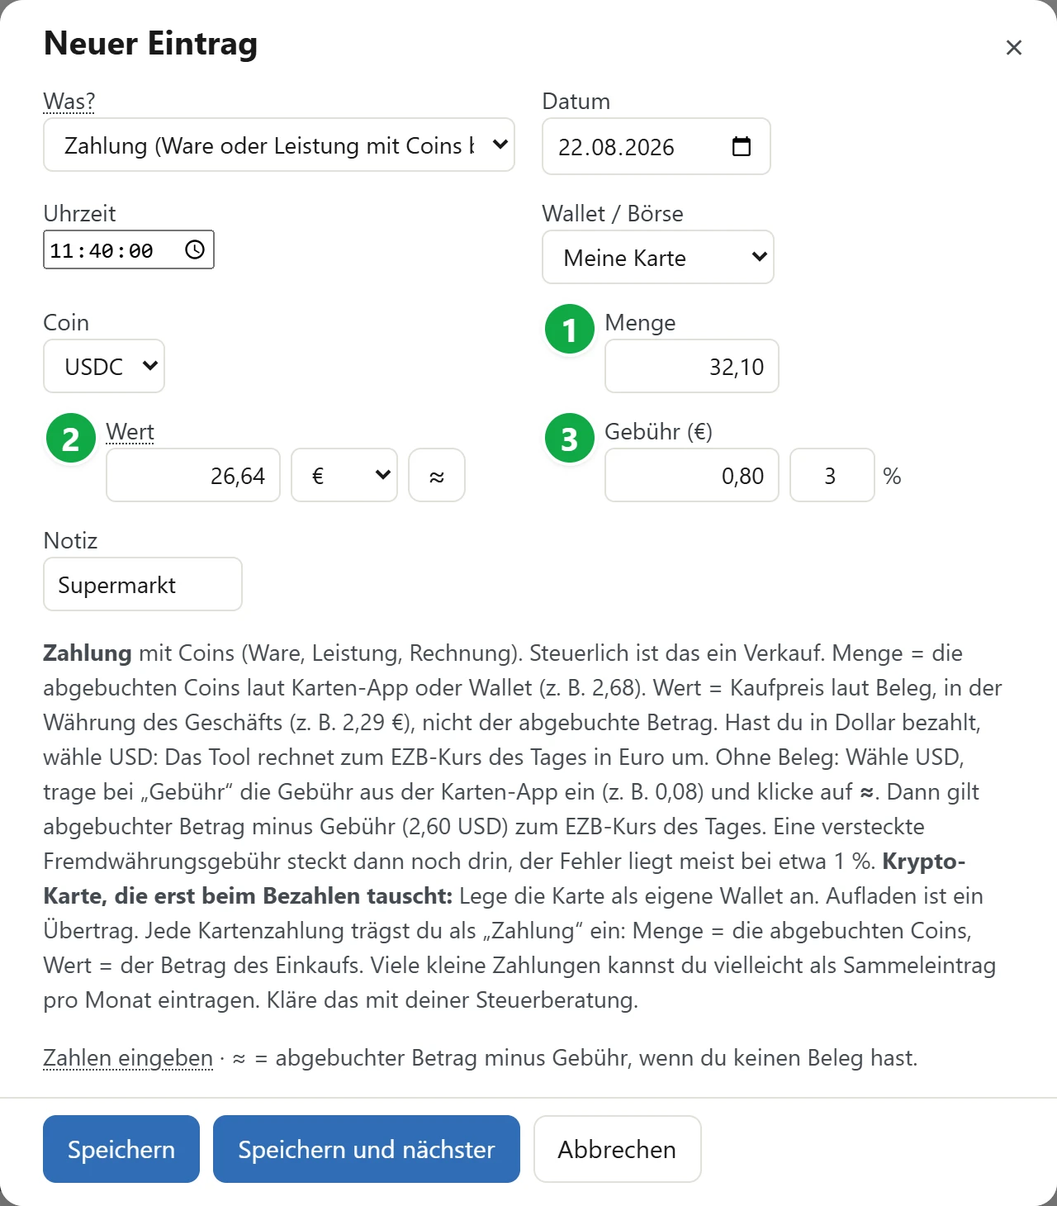
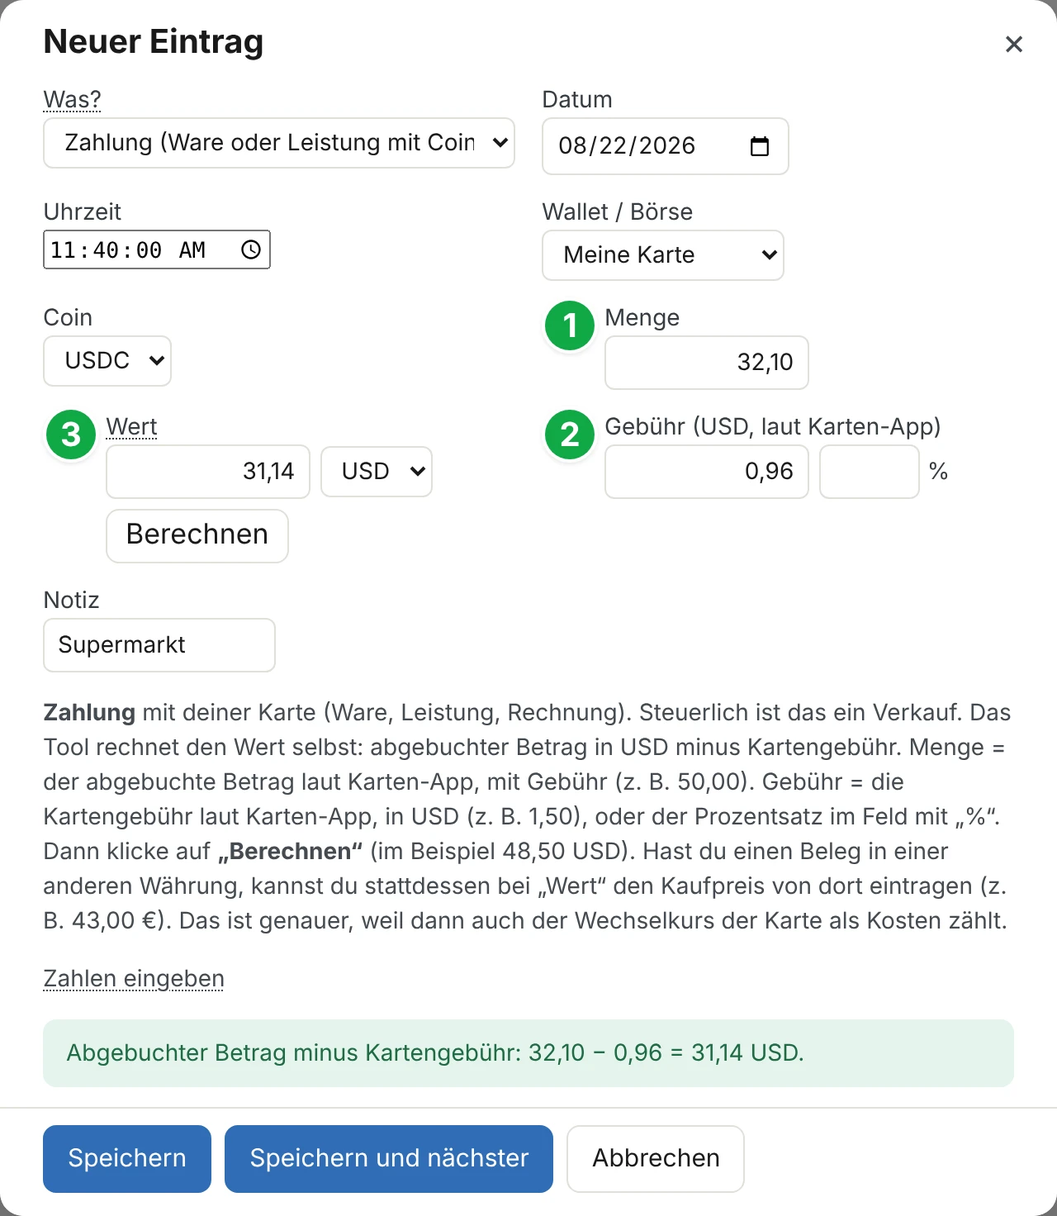
0.137: Kartenzahlung, zwei Wege, Gebühr in USD, Knopf „Berechnen“, Anleitung Abschnitt 11
Claude-Session: https://claude.ai/code/session_01XeVKBiWcTUzEdKGkeYYZGJ

diff --git a/trading-bilanz.html b/trading-bilanz.html
@@ -2482,7 +2482,7 @@ for(const k of ['tag','cx','wallets','defCoin','rsrc','rown','rcov','tagDrop','t
   if(S.wbalD!=null&&(typeof S.wbalD!=='object'||Array.isArray(S.wbalD)))delete S.wbalD;
   // Ab 0.122: Merker statt Namen
   nameMarks(S);
-  // Ab 0.136 (Florians Entscheidung): Zahlung aus einer Karte, mit ≈ ausgerechnet (abgebuchter Betrag minus Gebühr in USD, Gebühr über 0): Das ist eine
+  // Ab 0.137 (Florians Entscheidung): Zahlung aus einer Karte, mit ≈ ausgerechnet (abgebuchter Betrag minus Gebühr in USD, Gebühr über 0): Das ist eine
   // Rechnung, keine Schätzung. Sie gilt als fertig, die Notiz „Schätzung: …“ fällt weg. Mit Gebühr 0 bleibt sie geschätzt.
   for(const c of S.cx)if(c.kind==='bezahlung'&&c.est&&c.cardPct==null&&c.cur==='USD'&&c.fee>0&&c.qty>0&&Math.abs((c.usd||0)-(c.qty-c.fee))<0.006&&payCardW(S,c.wallet)){
     c.est=false;if(c.note==='Schätzung: abgebuchter Betrag minus Gebühr')c.note=''}
@@ -4115,7 +4115,7 @@ function payBulk(S,keys,pct,ok){const out=[],CA=wCardSet(S);
 // Zahlungen aus älteren Ständen um, deren Wert und Gebühr noch genau der alten Formel entsprechen (also nicht von Hand geändert sind).
 // Als function (nicht const), weil fixState sie schon beim Laden braucht.
 function cardFeeOf(q,p){const fee=Math.max(0,Math.round(q*p+1e-7)/100);return {usd:Math.max(0,+(q-fee).toFixed(8)),fee}}
-// Ab 0.136 (Florians Entscheidung): Kartenzahlung = Zahlung aus einer Wallet der Art „Karte“ (gespeicherte Art, sonst der Vorschlag kindGuess).
+// Ab 0.137 (Florians Entscheidung): Kartenzahlung = Zahlung aus einer Wallet der Art „Karte“ (gespeicherte Art, sonst der Vorschlag kindGuess).
 // Ihre Gebühr steht immer in USD, laut Karten-App, egal welche Währung der Wert hat, auch bei alten Einträgen. Die Rechnung (kxEvents, Block KRYPTO)
 // sieht die Art nicht, sie liest die Marke feeU am Eintrag; payFeeSync setzt sie aus der Art der Wallet (fixState, cryptoCalc). Zwei Wege:
 // Weg 1 (Standard, Wert in USD): Wert = abgebuchter Betrag minus Kartengebühr. Weg 2 (Wert in einer anderen Währung): Kaufpreis laut Beleg.
@@ -7718,7 +7718,7 @@ function kxEvents(tag,cx,rf,bo){
     if(!KX_ART[c.kind]||(cxMissing(c).length&&!(c.kind==='uebertrag'&&c.dxb&&dxB[c.id]&&c.to===c.wallet&&c.date&&c.qty>0)))return;
     const nt=c.note?': '+c.note:'',b={k:c.kind,d:c.date,tm:c.time||'',w:c.wallet,coin:c.coin,q:c.qty,cx:i,est:!!c.est};
     const mv=()=>{const r=rf(c.date,'');return r?c.qty/r:NaN}; // Marktwert am Tag
-    // Ab 0.136: feeU = Gebühr in USD auch bei einem Wert in einer anderen Währung (Kartenzahlung, payFeeSync), zum EZB-Kurs des Tages in Euro
+    // Ab 0.137: feeU = Gebühr in USD auch bei einem Wert in einer anderen Währung (Kartenzahlung, payFeeSync), zum EZB-Kurs des Tages in Euro
     const fe=()=>{if(!(c.fee>0))return 0;if(c.cur!=='USD'&&!c.feeU)return c.fee;const r=rf(c.date,'');return r?c.fee/r:NaN};
     const k=c.kind;
     // Ab 0.133: Kauf über DFX.swiss mit späterem Zugang: in der Wallet ab dem Zugang (d, tm), Kaufdatum für die Haltefrist bleibt der Tag des Kaufs (kd, kdx)
@@ -7930,7 +7930,7 @@ function cryptoCalc(L,until){RD=null;payFeeSync(S);const R=kxRun(L||cxLand(),kxE
   for(const s of R.short)Object.defineProperty(s,'_all',{value:R.short});return R}   // Ab 0.71 Nachtrag 2: für cxKept (keepPick)
 // Ab 0.41: Zahl der Zahlungen mit Coins im Jahr y (ohne y: alle Jahre), für Annahmen und Fragen an die Steuerberatung
 const payN=(C,y)=>C.sales.filter(s=>s.k==='bezahlung'&&(!y||s.d.slice(0,4)===y)).length;
-// Ab 0.136 (Florians Antwort 3): Zahlungen außer Kartenzahlungen nach Weg 1 (payWeg1). Nur mit ihnen kommen die Sätze zum Kaufpreis laut Beleg
+// Ab 0.137 (Florians Antwort 3): Zahlungen außer Kartenzahlungen nach Weg 1 (payWeg1). Nur mit ihnen kommen die Sätze zum Kaufpreis laut Beleg
 // (Annahme PAY_ANN, Frage q-pay); Kartenzahlungen nach Weg 1 haben ihren eigenen Satz (a-card).
 const payBN=(C,y)=>C.sales.filter(s=>s.k==='bezahlung'&&(!y||s.d.slice(0,4)===y)&&!payWeg1(S,S.cx[s.cx])).length;
 const PAY_ANN={AT:'Bei Zahlungen mit Coins gilt der Kaufpreis der Ware oder Leistung als Erlös. Der Unterschied zum Wert der abgebuchten Coins mindert den Gewinn wie eine Gebühr.',
@@ -9920,7 +9920,7 @@ function flowValText(f){
     if(c.est&&c.cur==='USD'&&c.cardPct!=null)return `Abgebuchter Betrag ohne Kartengebühr (${plainDe(c.cardPct)} %): ${usd(c.usd)}${k} = ${v} (geschätzt)${pf}.`;
     if(c.est&&c.cur==='USD')return `Abgebuchter Betrag minus Gebühr: ${usd(c.usd)}${k} = ${v} (geschätzt)${pf}.`;
     if(c.est)return `Tageswert der Coins ${v} (geschätzt)${pf}.`;
-    // Ab 0.136: Kartenzahlung Weg 1 (Wert in USD) ist eine Rechnung; Weg 2 nennt die Gebühr auch in USD
+    // Ab 0.137: Kartenzahlung Weg 1 (Wert in USD) ist eine Rechnung; Weg 2 nennt die Gebühr auch in USD
     if(payCardW(S,c.wallet)){if(c.cur==='USD')return `Abgebuchter Betrag ohne Kartengebühr laut Karten-App: ${usd(c.usd)}${k} = ${v}${pf}.`;
       if(f.fee>0)return `Kaufpreis laut Beleg ${v} plus Gebühr ${fE.format(f.fee)} (${usd(c.fee)} laut Karten-App${k}).`}
     return `Kaufpreis laut Beleg ${v}${c.cur==='USD'?` (${usd(c.usd)}${k})`:''}${pf}.`}
@@ -10014,9 +10014,9 @@ const CX_HELP={
   verkauf:{b:'<b>Verkauf</b> gegen Euro oder Dollar. Wert = der Betrag, der bei dir angekommen ist, siehe deinen Kontoauszug oder die Verkaufsbestätigung der Börse. Hat die Börse eine Gebühr abgezogen, trage sie bei „Gebühr“ ein: Sie wird vom Erlös abgezogen. Hast du Dollar bekommen, wähle USD: Das Tool rechnet zum EZB-Kurs des Tages in Euro um.',
     AT:' Hat eine österreichische Börse wie Bitpanda die KESt schon abgezogen, setze das Häkchen „KESt abgezogen“.',DE:' Die Gebühr zählt als Werbungskosten.',tail:CX_CARD},
   // Ab 0.41 Lesart A (AT und DE): Wert = Kaufpreis laut Beleg, die Differenz zu den abgebuchten Coins mindert als Gebühr das Ergebnis
-  // Ab 0.136 (Florians Entscheidung): Zahlung aus einer Wallet, die keine Karte ist; der Teil zur Krypto-Karte und die Beispielwerte sind weg
+  // Ab 0.137 (Florians Entscheidung): Zahlung aus einer Wallet, die keine Karte ist; der Teil zur Krypto-Karte und die Beispielwerte sind weg
   bezahlung:{b:'<b>Zahlung</b> mit Coins (Ware, Leistung, Rechnung). Steuerlich ist das ein Verkauf. Menge = die abgebuchten Coins laut Wallet. Wert = Kaufpreis laut Beleg, in der Währung des Geschäfts, nicht der abgebuchte Betrag. Hast du in Dollar bezahlt, wähle USD: Das Tool rechnet zum EZB-Kurs des Tages in Euro um. Ohne Beleg: Wähle USD, trage bei „Gebühr“ die Gebühr ein und klicke auf <b>≈</b>. Dann gilt abgebuchter Betrag minus Gebühr zum EZB-Kurs des Tages, der Wert gilt als geschätzt. <b>Mit einer Krypto-Karte bezahlt?</b> Wähle bei „Wallet / Börse“ deine Karte oder lege sie mit „+ Neue Karte …“ an. Dann rechnet das Tool den Wert selbst.'},
-  // Ab 0.136 (Florians Wortlaut): Zahlung aus einer Wallet der Art „Karte“ (payCardW)
+  // Ab 0.137 (Florians Wortlaut): Zahlung aus einer Wallet der Art „Karte“ (payCardW)
   bezkarte:{b:'<b>Zahlung</b> mit deiner Karte (Ware, Leistung, Rechnung). Steuerlich ist das ein Verkauf. Das Tool rechnet den Wert selbst: abgebuchter Betrag in USD minus Kartengebühr. Menge = der abgebuchte Betrag laut Karten-App, mit Gebühr (z. B. 50,00). Gebühr = die Kartengebühr laut Karten-App, in USD (z. B. 1,50), oder der Prozentsatz im Feld mit „%“. Dann klicke auf <b>„Berechnen“</b> (im Beispiel 48,50 USD). Hast du einen Beleg in einer anderen Währung, kannst du stattdessen bei „Wert“ den Kaufpreis von dort eintragen (z. B. 43,00 €). Das ist genauer, weil dann auch der Wechselkurs der Karte als Kosten zählt.'},
   weg:{AT:'<b>Verschenkt oder weitergegeben</b>: Coins, die du ohne Gegenleistung weggegeben hast. Die beschenkte Person übernimmt deinen Einkaufswert, das Tool zeigt dir Menge und Ø-Preis zum Weitergeben. Hast du damit etwas bezahlt oder Schulden zurückgezahlt, wähle „Zahlung“, das ist steuerlich ein Verkauf. Größere Schenkungen müssen gemeldet werden (unter Angehörigen ab 50.000 € in einem Jahr, sonst ab 15.000 € in fünf Jahren).',
     DE:'<b>Verschenkt oder weitergegeben</b>: Coins, die du ohne Gegenleistung weggegeben hast. Die Posten gehen nach FIFO weg, ohne Gewinn. Die beschenkte Person übernimmt Kaufdatum und Einkaufswert, das Tool zeigt dir die Posten zum Weitergeben. Hast du damit etwas bezahlt oder Schulden zurückgezahlt, wähle „Zahlung“, das ist steuerlich ein Verkauf.'},
@@ -10039,9 +10039,9 @@ const CX_HELP={
   gebuehr:{AT:'<b>Gebühr</b>: Coins, die als Gebühr weggehen (z. B. Netzwerkgebühr bei einem Übertrag), Menge siehst du im Verlauf deiner Wallet. Steuerlich bezahlst du damit eine Leistung (EStR Rz 6178v): Das Tool rechnet sie als Verkauf zum Tageswert (Menge ÷ EZB-Kurs). Meist geht es um Cents.',
     DE:'<b>Gebühr</b>: Coins, die als Gebühr weggehen (z. B. Netzwerkgebühr bei einem Übertrag), Menge siehst du im Verlauf deiner Wallet. Das Tool rechnet sie als Verkauf zum Tageswert (Menge ÷ EZB-Kurs). Meist geht es um Cents. Deine Steuerberatung bekommt dazu eine Frage in der Zusammenfassung.'}
 };
-// Ab 0.136: Wert ins Feld, auf Cent mit zwei Stellen, sonst mit allen Stellen (ungerundet, z. B. 2,595294)
+// Ab 0.137: Wert ins Feld, auf Cent mit zwei Stellen, sonst mit allen Stellen (ungerundet, z. B. 2,595294)
 const cxV8=v=>Math.abs(v*100-Math.round(v*100))<1e-6?numIn(v):f8(v);
-// Ab 0.136: Ist die gewählte Wallet im Formular eine Karte? („+ Neue Karte …“ zählt mit)
+// Ab 0.137: Ist die gewählte Wallet im Formular eine Karte? („+ Neue Karte …“ zählt mit)
 function cxCardW(){const w=$('cx-wallet').value;return w==='+k'||(S.wallets.includes(w)&&payCardW(S,w))}
 // Altvermögen (AT): Kauf vor dem 01.03.2021 (Hatte ich schon, Geschenk mit Kaufdatum der schenkenden Person)
 const AT_ALT='2021-03-01',ALT_TXT='Altvermögen, es gelten andere Regeln. Kläre das mit deiner Steuerberatung.';
@@ -10060,7 +10060,7 @@ function cxHelp(){
   // Ab 0.55 (1): Baustein „Geschenk“ (giftH): bei Geschenk erhalten Wert, Kaufdatum und Name, bei Geschenk gemacht nur der Name
   {const g=k==='eingang'||k==='weg';sh('cx-gift',g);if(g){giftDir(giftOf($('cx-gift')),k==='weg'?'aus':'ein');pnFill()}}
   // ≈ schätzt in Euro: nur bei gewähltem €. Ab 0.41 bei Zahlung immer: abgebuchter Betrag minus Gebühr in USD (Ersatzweg ohne Beleg).
-  // Ab 0.136 (Florians Entscheidung): Zahlung aus einer Karte (gewählte Wallet der Art „Karte“ oder „+ Neue Karte …“): Knopf „Berechnen“ statt ≈,
+  // Ab 0.137 (Florians Entscheidung): Zahlung aus einer Karte (gewählte Wallet der Art „Karte“ oder „+ Neue Karte …“): Knopf „Berechnen“ statt ≈,
   // Gebühr immer in USD, eigener Erklärtext; der Hinweis unter dem Formular fällt weg (der Erklärtext sagt es)
   const pay=k==='bezahlung',est=f.est&&(pay||$('cx-cur').value!=='USD'),card=pay&&cxCardW();sh('btn-estval',est);sh('cx-esthint',est&&!card);
   $('btn-estval').textContent=card?'Berechnen':'≈';
@@ -10110,7 +10110,7 @@ async function estValue(force){
     const q=parseDe($('cx-qty').value),fs=$('cx-fee').value.trim(),f=fs?parseDe(fs):0,nd=(...L)=>needMark($('cx-form'),L.map(x=>[x,'']));
     if(!(q>0)){msg('cxmsg','warn','Trage zuerst die Menge ein.');return nd('#cx-qty')}
     if(!(f>=0)){msg('cxmsg','bad','Gebühr: Das ist keine gültige Zahl. Schreibe z. B. 0,08 oder lass das Feld leer.');return nd('#cx-fee')}
-    // Ab 0.136 (Florians Entscheidung): Zahlung aus einer Karte: „Berechnen“ rechnet wie die Kartengebühr: Gebühr auf Cent gerundet (steht danach so im
+    // Ab 0.137 (Florians Entscheidung): Zahlung aus einer Karte: „Berechnen“ rechnet wie die Kartengebühr: Gebühr auf Cent gerundet (steht danach so im
     // Feld), Wert = abgebuchter Betrag minus Gebühr, ungerundet, in USD. Eine Rechnung, keine Schätzung: keine Notiz, dataset.calc statt dataset.est.
     if(cxCardW()){const fc=Math.round(f*100+1e-7)/100;if(!(fc<q)){msg('cxmsg','bad','Die Gebühr ist nicht kleiner als die Menge. Prüfe die beiden Zahlen.');return nd('#cx-fee','#cx-qty')}
       const v=+(q-fc).toFixed(8);if(fs)$('cx-fee').value=numIn(fc);$('cx-cur').value='USD';cxHelp();$('cx-eur').value=cxV8(v);delete $('cx-eur').dataset.est;$('cx-eur').dataset.calc='1';needClear($('cx-eur'));
@@ -10208,7 +10208,7 @@ function openCx(id,pre){
   $('cx-eur').value=!c||!ef.eur||swE?'':v.cur==='USD'?f8(v.usd):f8(v.eur);
   if(swc){$('cx-otherq').value=c.otherQ>0?f8(c.otherQ):'';$('cx-unk').checked=swE;if(!swE&&c.ew){const E=$('cx-eur');E.dataset.ew=c.ew;if(c.ewT)E.dataset.ewt=c.ewT;if(c.ew==='hilfe'&&c.ewT)$('cx-rhs').textContent=c.ewT}}
   if(c&&c.est&&c.kind!=='tauschaus')$('cx-eur').dataset.est='1';else delete $('cx-eur').dataset.est;
-  // Ab 0.136: Kartenzahlung nach Weg 1 (Wert = abgebuchter Betrag minus Gebühr, in USD): eine geänderte Gebühr rechnet den Wert mit, wie nach „Berechnen“
+  // Ab 0.137: Kartenzahlung nach Weg 1 (Wert = abgebuchter Betrag minus Gebühr, in USD): eine geänderte Gebühr rechnet den Wert mit, wie nach „Berechnen“
   if(c&&!c.est&&payWeg1(S,c)&&c.qty>0&&Math.abs((c.usd||0)-(c.qty-(c.fee||0)))<1e-6)$('cx-eur').dataset.calc='1';else delete $('cx-eur').dataset.calc;
   // Ab 0.59 (Nachtrag): geschätzter Wert der erhaltenen Coins
   if(c&&c.est&&c.kind==='tauschaus')$('cx-recv').dataset.est='1';else delete $('cx-recv').dataset.est;
@@ -10346,7 +10346,7 @@ async function addCx(){
   // Ab 0.48 (3.3): Name der Person beim Geschenk (frei)
   if(k==='eingang'||k==='weg'){const pn=$('cx-pn').value.trim();if(pn)entry.pn=pn}
   if(fee>0){if(F.feeIn)entry.feeIn=fee;else entry.fee=fee}
-  // Ab 0.136: Gebühr einer Kartenzahlung immer in USD (payFeeSync). Wert und Gebühr in USD zusammen mehr als die Menge: ruhiger Satz im Toast (Florians
+  // Ab 0.137: Gebühr einer Kartenzahlung immer in USD (payFeeSync). Wert und Gebühr in USD zusammen mehr als die Menge: ruhiger Satz im Toast (Florians
   // Antwort 5, Wortlaut sein Vorschlag), das Speichern geht weiter
   const card=k==='bezahlung'&&cxCardW();if(card)entry.feeU=1;
   const ovTxt=card&&usdIn&&fee>0&&amt+fee>q+1e-9?' Wert und Gebühr sind zusammen mehr als der abgebuchte Betrag. Mit „Berechnen“ passt es.':'';
@@ -10853,7 +10853,7 @@ function taxBlocks(c){const DE=c.L==='DE',f=c.f,y=c.y,ann=[],est=[],q=[],not=[],
       :'Eine Auszahlung vom Broker in Coins gilt als Kauf. Der Einkaufswert ist der abgebuchte USD-Betrag samt Gebühren.');
     if(c.feeSale>0||c.feeBuy)A('a-fee',DE?'Gebühren beim Verkauf sind Werbungskosten, anteilig verteilt (Rn. 57). Gebühren beim Kauf erhöhen die Anschaffungskosten.'
       :`Gebühren beim Kauf erhöhen den Einkaufswert. Gebühren beim Verkauf mindern den Erlös${c.feeSale>0?`, ${y} zusammen ${f.E(c.feeSale)}`:''}.`);
-    // Ab 0.136 (Florians Entscheidung und Antwort 2a): Kartenzahlungen nach Weg 1 (bestätigt, Wert in USD), mit Zahl und Summe als zweitem Satz
+    // Ab 0.137 (Florians Entscheidung und Antwort 2a): Kartenzahlungen nach Weg 1 (bestätigt, Wert in USD), mit Zahl und Summe als zweitem Satz
     if(c.card&&c.card.n)A('a-card',`Kartenzahlungen: angesetzt ist der abgebuchte Betrag ohne Kartengebühr laut Karten-App. ${y} ${c.card.n===1?'ist das 1\u00a0Zahlung mit':`sind das ${c.card.n}\u00a0Zahlungen mit zusammen`} ${f.U(c.card.usd)}${isFinite(c.card.eur)?` (${f.E(c.card.eur)})`:''}.`);
     if(c.coinFee&&!DE)A('a-coinfee','Gebühren, die in Coins bezahlt wurden (z. B. für Überträge), gelten als Verkauf zum Tageswert (EStR Rz 6178v).');
     if(c.swap)A('a-swap',DE?'Ein Tausch von Kryptowerten ist eine Veräußerung des einen und eine Anschaffung des anderen, jeweils zum Tageswert.'
@@ -10871,7 +10871,7 @@ function taxBlocks(c){const DE=c.L==='DE',f=c.f,y=c.y,ann=[],est=[],q=[],not=[],
         :(e.p&&e.dd?`Wert am Tag des Erhalts, ${f.E(e.eur)}, und dieser Tag als Kaufdatum.`:e.p?`Wert am Tag des Erhalts, ${f.E(e.eur)}.`:'der Tag des Erhalts als Kaufdatum.'));
       est.push({id:e.bk?'e-giftbk':'e-gift',t})}
     else if(e.k==='swapin')est.push({id:'e-swapin',t:h+`aus einem anderen Coin getauscht: Wert fehlt. Angesetzt: Wert am Tag, ${f.E(e.eur)}.`});
-    // Ab 0.136 (Florians Antwort 2b): Kartenzahlung mit noch nicht bestätigter Kartengebühr: „Kartengebühr nicht bestätigt“ statt „Beleg fehlt“
+    // Ab 0.137 (Florians Antwort 2b): Kartenzahlung mit noch nicht bestätigter Kartengebühr: „Kartengebühr nicht bestätigt“ statt „Beleg fehlt“
     else if(e.k==='pay'&&e.usd!=null&&e.pct!=null)est.push({id:'e-paycard',t:h+`Zahlung: Kartengebühr nicht bestätigt. Angesetzt: abgebuchter Betrag ohne Kartengebühr (${e.pct} %), ${f.U(e.usd)}${e.eurU!=null&&isFinite(e.eurU)?` (${f.E(e.eurU)})`:''}.`});
     else if(e.k==='pay')est.push({id:'e-pay',t:h+'Zahlung: Beleg fehlt. Angesetzt: '+(e.usd!=null?(e.pct!=null?`abgebuchter Betrag ohne Kartengebühr (${e.pct} %), ${f.U(e.usd)}${e.eurU!=null&&isFinite(e.eurU)?` (${f.E(e.eurU)})`:''}.`:`abgebuchter Betrag ohne Gebühr, ${f.U(e.usd)}${e.eurU!=null&&isFinite(e.eurU)?` (${f.E(e.eurU)})`:''}.`):`Wert der Coins am Tag, ${f.E(e.eur)}.`)});
     else est.push({id:'e-other',t:h+`${e.kind}: Wert fehlt. Angesetzt: Wert am Tag, ${f.E(e.eur)}.`})}
@@ -11877,7 +11877,7 @@ ${ECB_CITE}`},
   tdeur:{t:'betrifft ca.',h:'Um wie viel Euro es ungefähr geht: die Menge zum EZB-Kurs des Tages.'},
   tdpairs:{t:'Gehört das zu einem dieser Einträge?',h:'Hast du den Vorgang schon eingetragen, z. B. einen Übertrag (Coins zwischen zwei deiner Wallets) von Hand, verbindest du die Bewegung damit.'},
   geschpay:{t:'Wert der Zahlung',h:'Der Kaufpreis laut Beleg. Ohne Beleg: abgebuchter Betrag minus Gebühr in USD, mit ≈ ausgerechnet. Der Wert gilt dann als geschätzt.'},
-  // Ab 0.136: bei einer Zahlung aus einer Karte
+  // Ab 0.137: bei einer Zahlung aus einer Karte
   geschpayk:{t:'Wert der Zahlung',h:'Abgebuchter Betrag minus Kartengebühr, in USD, mit „Berechnen“ ausgerechnet. Mit einem Beleg in einer anderen Währung: der Kaufpreis laut Beleg.'},
   geschgp:{t:'Weiß ich nicht',h:'Dann gilt der Tageswert am Geschenktag als Einkaufswert: Menge geteilt durch den EZB-Kurs, 1 Coin = 1 USD. Der Wert ist dann geschätzt.'},
   geschgd:{t:'Weiß ich nicht',h:'Dann gilt der Geschenktag als Kaufdatum (geschätzt). In Deutschland beginnt die Haltefrist dann am Geschenktag.'},
@@ -13453,9 +13453,9 @@ $('cx-kind').onchange=()=>{const k=$('cx-kind').value,hasO=v=>[...$('cx-to').opt
   else if(CX_CTX&&S.wallets.includes(CX_CTX.w))$('cx-wallet').value=CX_CTX.w;
   cxHelp()};
 $('cx-cur').onchange=()=>{delete $('cx-eur').dataset.est;delete $('cx-eur').dataset.calc;cxHelp()};
-// Ab 0.136 (Florians Korrektur c): Wechsel der Wallet baut das Formular neu auf (Karte oder nicht), alle eingetippten Werte bleiben
+// Ab 0.137 (Florians Korrektur c): Wechsel der Wallet baut das Formular neu auf (Karte oder nicht), alle eingetippten Werte bleiben
 $('cx-wallet').addEventListener('change',()=>cxHelp());
-// Ab 0.41: Zahlung mit ≈ (USD): ändert sich die Gebühr, rechnet der Wert mit. Ab 0.136 bei einer Karte nur, wenn der Wert mit „Berechnen“ entstand und in
+// Ab 0.41: Zahlung mit ≈ (USD): ändert sich die Gebühr, rechnet der Wert mit. Ab 0.137 bei einer Karte nur, wenn der Wert mit „Berechnen“ entstand und in
 // USD steht (Weg 1, wie die Kartengebühr); steht er in einer anderen Währung (Weg 2), rechnet eine geänderte Gebühr ihn nie neu (Florians Korrektur b).
 function cxFeeRe(){const e=$('cx-eur');if($('cx-kind').value!=='bezahlung'||$('cx-cur').value!=='USD')return;const card=cxCardW();if(card?e.dataset.calc!=='1':e.dataset.est!=='1')return;
   const q=parseDe($('cx-qty').value),s=$('cx-fee').value.trim(),f=s?parseDe(s):0;if(!(q>0)||!(f>=0))return;
@@ -13699,7 +13699,7 @@ $('btn-boot-wipe').onclick=()=>$('btn-wipe').onclick();
 // und die Auswertung zeigte nach neuen Reports nichts. Der Toast „Alles gelöscht.“ kommt nach dem Neuladen (sessionStorage).
 $('btn-wipe').onclick=async()=>{if(!(await askBox({title:'Alles löschen',text:'Wirklich alle Daten aus diesem Browser löschen?',ok:'Alles löschen',danger:true,more:ASK_BK})))return;BOOT_BAD=false;S=blank();S.ui.tab='reports';save(true);try{sessionStorage.setItem(KEY+'-wiped','1')}catch(e){}location.reload()};
 // Version und Datum: bei der Weitergabe auf 1.0 und den Tag der Weitergabe setzen
-const VERSION='0.136',VDATE='12.11.2026',DL_URL='https://trading-bilanz.github.io';
+const VERSION='0.137',VDATE='12.11.2026',DL_URL='https://trading-bilanz.github.io';
 /* ================= TEXTE ZUM TAUSCHEN (ab 0.134) =================
    KOMMT: Punkte der Karte „Was vielleicht noch kommt“ im Reiter „Resonanz“, je Punkt ein Text in Anführungszeichen, getrennt mit Komma,
    z. B. const KOMMT=['Erster Punkt','Zweiter Punkt']. Solange die Liste leer ist, ist die ganze Karte unsichtbar. */

diff --git a/anleitung.html b/anleitung.html
@@ -237,7 +237,7 @@ document.addEventListener('DOMContentLoaded',function(){
     <li><p><b>Stufe 2: Dein echtes Geld.</b> Du fügst die Tag-Daten ein und siehst, was du wirklich eingezahlt und ausgezahlt hast.</p>
       <p class="small"><b>Was du brauchst:</b> den Zugang zum Tag-Portal.</p></li>
     <li><p><b>Stufe 3: Krypto-Steuer.</b> Nur wenn du mit USDC oder USDT ein- oder auszahlst und deine Kryptos nicht schon mit einem <a href="#anderes-tool">anderen Tool</a> rechnest. Du trägst ein, woher die Coins kamen und wohin sie gingen.</p>
-      <p class="small"><b>Was du brauchst:</b> deine Kaufbelege oder die Datei deiner Börse, bei einer Krypto-Karte deren Belege, und am Ende den Kontostand jeder Wallet-App. Adressen brauchst du nicht.</p></li>
+      <p class="small"><b>Was du brauchst:</b> deine Kaufbelege oder die Datei deiner Börse, bei einer Krypto-Karte die Karten-App, und am Ende den Kontostand jeder Wallet-App. Adressen brauchst du nicht.</p></li>
   </ol>
   <p>Beim ersten Öffnen begrüßt dich das Tool und sagt kurz, was es kann. Im grauen Kästchen „Wo zahlst du Steuern?“ wählst du <b>„Österreich“</b>, <b>„Deutschland“</b> oder <b>„Ohne Steuer“</b>. Das kannst du später im Reiter „Steuer“ ändern. Mit einem der beiden Knöpfe unten geht es los. Hast du ein Land gewählt, zeigt dir das Tool beim ersten Öffnen des Reiters „Steuer“ einen wichtigen Hinweis.</p>
   <h4 class="os-win os-mac">Dateien ziehst du einfach ins Tool</h4>
@@ -529,12 +529,13 @@ document.addEventListener('DOMContentLoaded',function(){
   <p>Klicke auf <b>„Speichern“</b>.</p>
   <h4>Die Kartenzahlung</h4>
   <p>Klicke in der 4. Kategorie auf <b>„(Karten-)Zahlung“</b>. Es öffnet sich das Formular für eine Zahlung, bei <b>„Wallet / Börse“</b> steht schon deine Karte.</p>
-  <figure class="k"><a href="anleitung/tool-karte-zahlung.webp"><img src="anleitung/tool-karte-zahlung.webp" width="640" height="730" alt="Formular Neuer Eintrag: Zahlung am 22.08.2026 aus Meine Karte, grüne Kreise 1 bei Menge 32,10, 2 beim Wert 26,64 Euro, 3 bei der Gebühr 0,80 Euro und 3 Prozent" loading="lazy"></a></figure>
+  <figure class="k"><a href="anleitung/tool-karte-zahlung.webp"><img src="anleitung/tool-karte-zahlung.webp" width="640" height="736" alt="Formular Neuer Eintrag: Zahlung am 22.08.2026 aus Meine Karte, grüne Kreise 1 bei Menge 32,10, 2 bei der Gebühr 0,96 USD laut Karten-App, 3 beim Wert 31,14 USD mit dem Knopf Berechnen" loading="lazy"></a></figure>
   <ol class="kreise">
     <li>Trage bei <b>„Menge“</b> ein, was abgebucht wurde, mit Gebühr. Im Beispiel 32,10 USDC.</li>
-    <li>Bei <b>„Wert“</b> trägst du den Betrag vom Kassenbon in Euro ein, im Beispiel 26,64 €.</li>
-    <li>Bei <b>„Gebühr“</b> trägst du ins Feld mit „%“ ein, was die Karte dazu verlangt, im Beispiel 3. Das Tool rechnet daraus 0,80 €.</li>
+    <li>Bei <b>„Gebühr“</b> trägst du die Gebühr aus der Karten-App in USD ein, im Beispiel 0,96.</li>
+    <li>Klicke auf <b>„Berechnen“</b>: 32,10 minus 0,96 = 31,14 USD.</li>
   </ol>
+  <p>Hast du einen Kassenbon in Euro, kannst du stattdessen bei „Wert“ den Betrag von dort eintragen, im Beispiel 26,64 €.</p>
   <p>Klicke auf <b>„Speichern“</b>. Trage so jede Kartenzahlung ein. Ganz am Ende trägst du in <a href="#kontostand">Abschnitt 14</a> auch den Kontostand aus der Karten-App ein, im Beispiel 66,90 USDC. Dann prüft das Tool, ob eine Zahlung fehlt.</p>
   <p class="small">Mit Wallet-Dateien liest das Tool Aufladungen und Kartenzahlungen auch selbst ein. Eine Anleitung mit Bildern dazu folgt später.</p>
 </section>
@@ -704,7 +705,7 @@ document.addEventListener('DOMContentLoaded',function(){
 </main>
 
 <footer>
-  <p>Trading-Bilanz · Anleitung, Stand 10.11.2026 · Keine Steuer- oder Finanzberatung.</p>
+  <p>Trading-Bilanz · Anleitung, Stand 12.11.2026 · Keine Steuer- oder Finanzberatung.</p>
   <p><b>Nur das Original:</b> Nutze die Trading-Bilanz nur von <a href="https://trading-bilanz.github.io" target="_blank" rel="noopener">trading-bilanz.github.io</a>. Kopien aus anderen Quellen können verändert sein, zum Beispiel mit einer anderen Spendenadresse.</p>
   <p><b>Datenschutz:</b> Diese Seite speichert nichts und lädt nur ihre eigenen Bilder. Beim Aufruf speichert GitHub deine IP-Adresse aus Sicherheitsgründen (<a href="https://docs.github.com/en/site-policy/privacy-policies/github-general-privacy-statement" target="_blank" rel="noopener">Datenschutzerklärung von GitHub&nbsp;↗</a>).</p>
   <p><a href="https://weltenwandel.at/impressum.html" target="_blank" rel="noopener">Impressum&nbsp;↗</a> · <a href="mailto:florian@weltenwandel.at">florian@weltenwandel.at</a> · <a href="https://trading-bilanz.github.io" target="_blank" rel="noopener">Zur Trading-Bilanz</a></p>
